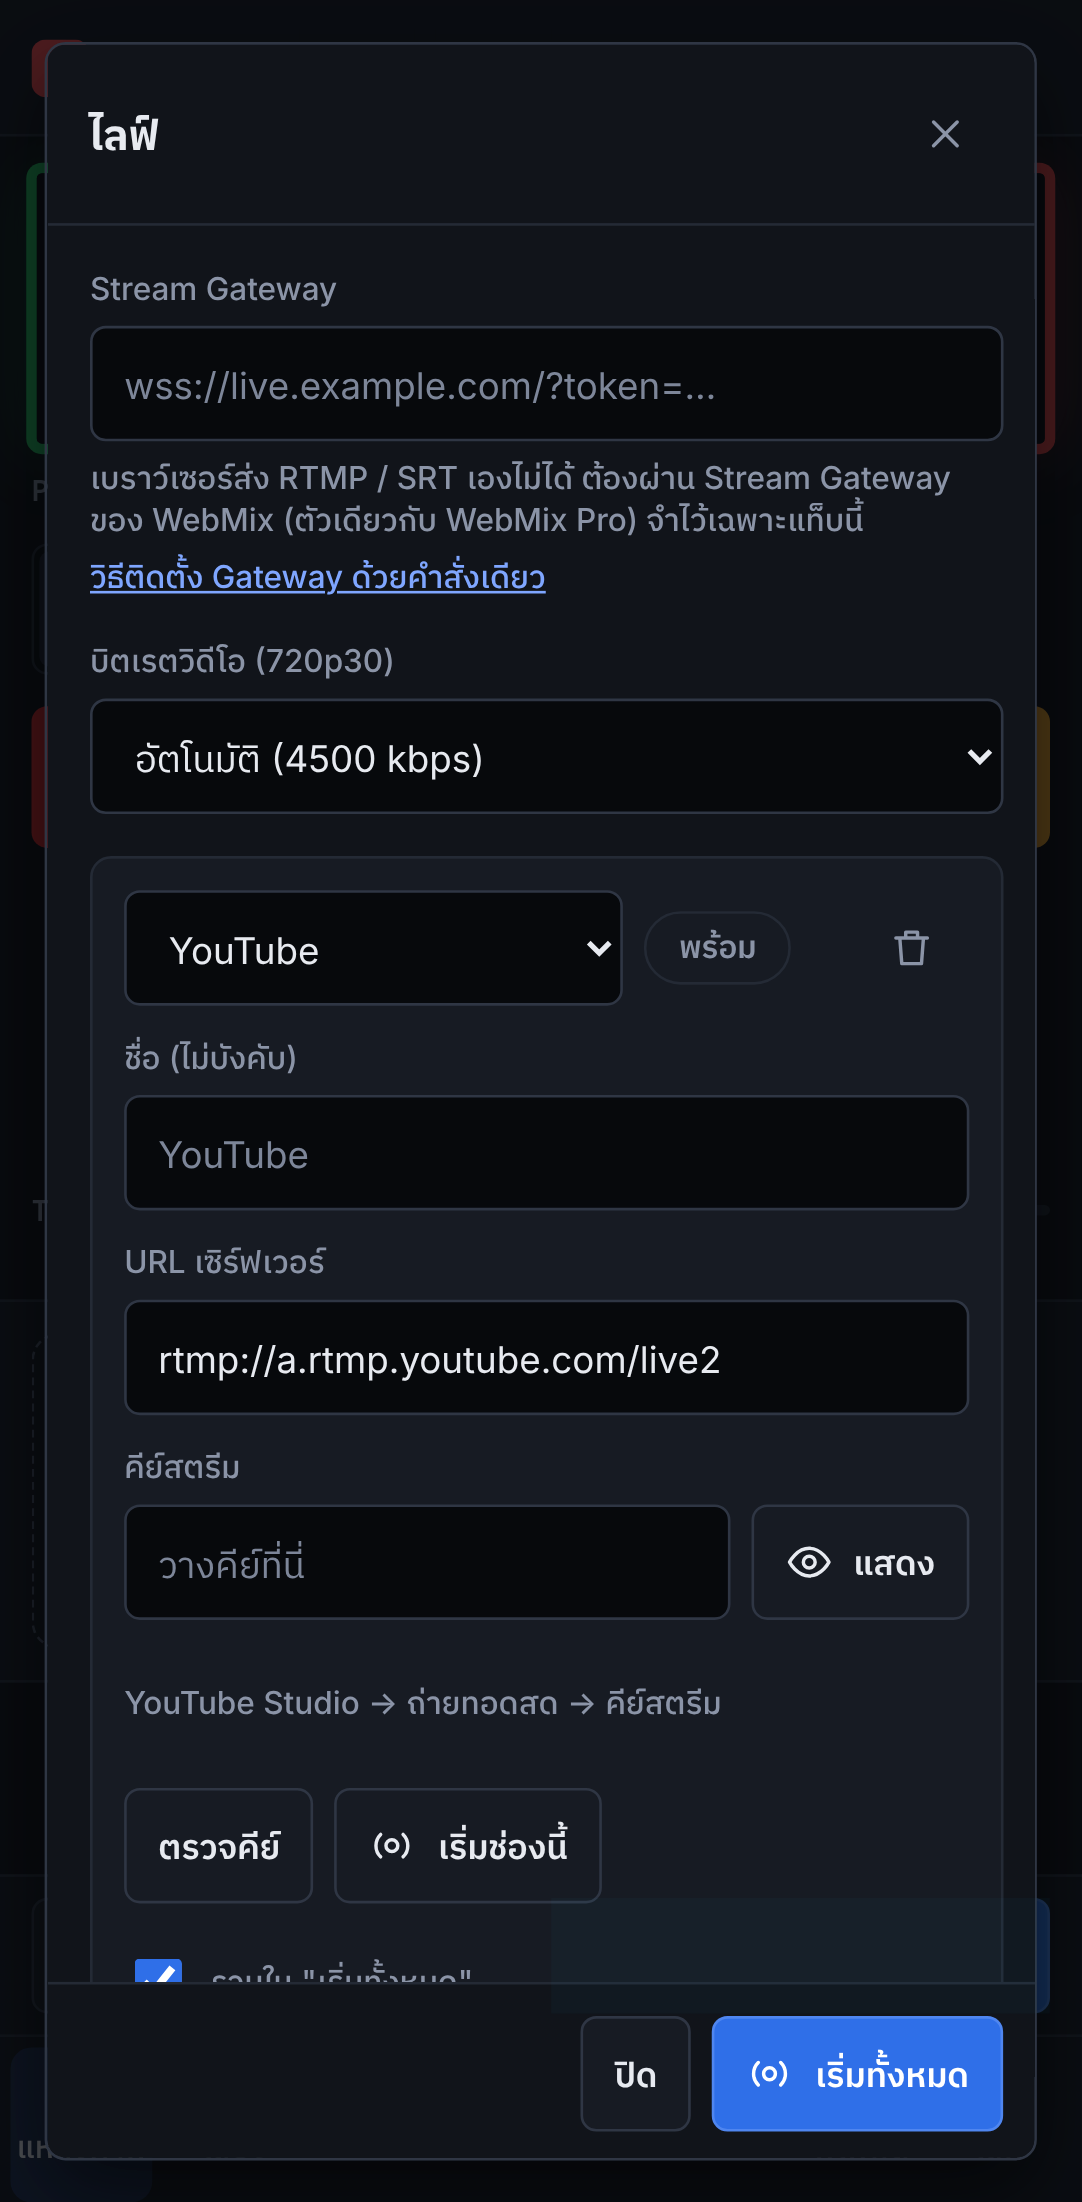
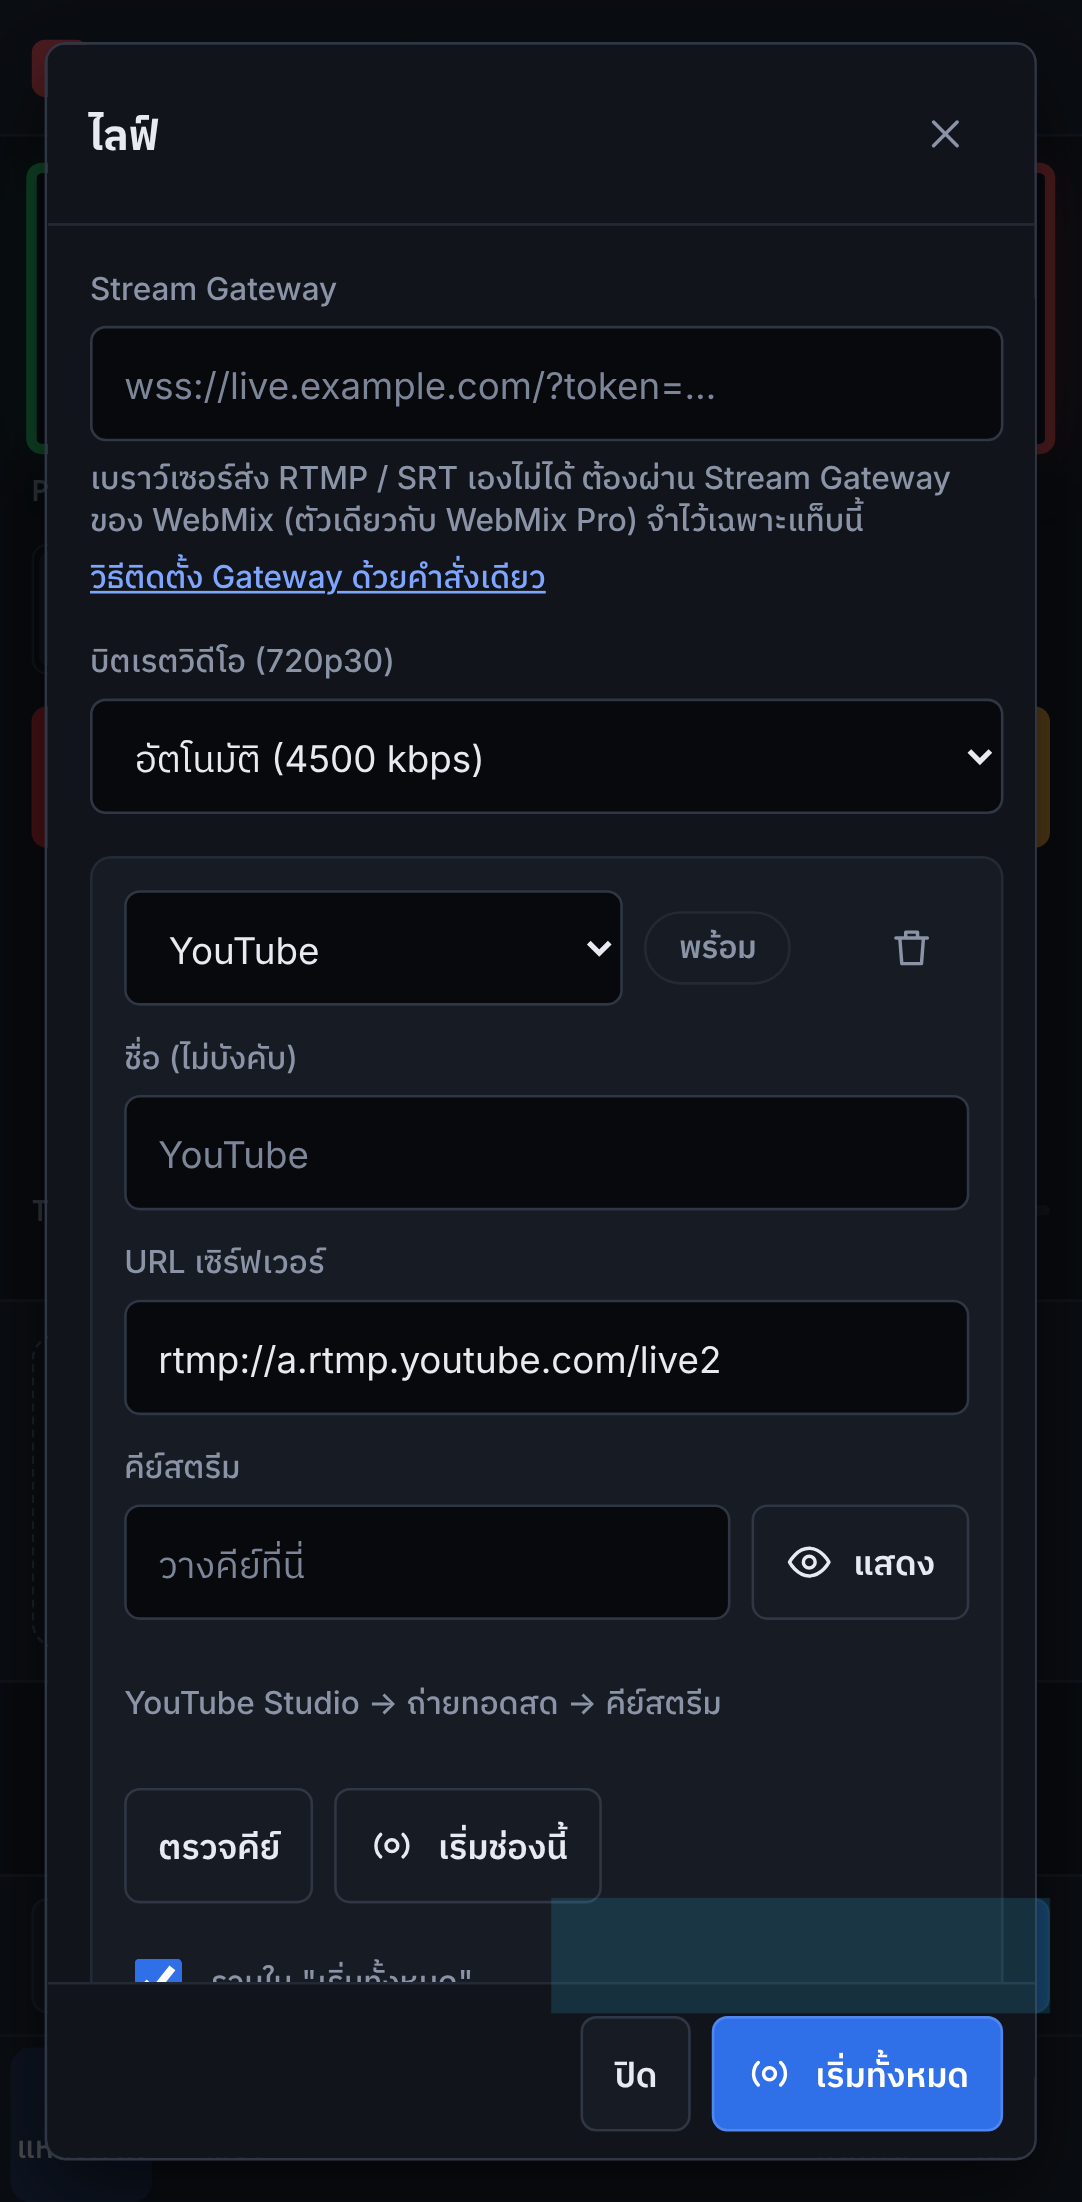
Fix overlay usability: pick a source from an empty channel, auto-PIP, cue on Preview
- Empty overlay buttons (and Shift+digit) open a chooser that assigns and takes the source
- A full-frame camera/video/image moved to an overlay shrinks to a PIP instead of covering Program
- Preview and Program no longer end up on the same source after a bus source moves to an overlay
- New per-channel 'show on PVW first' cue, marked green on the overlay button

Claude-Session: https://claude.ai/code/session_018is4AeNXbb7A8QyXR8Seq6

Changed region(s): [[0.488, 0.8647, 0.976, 0.9264]]

diff --git a/src/main.ts b/src/main.ts
@@ -94,6 +94,19 @@ function setOverlay(i: number, on: boolean): void {
   if (ui.selected === o.src) renderInspector();
 }
 
+/** what Preview shows: everything on air plus channels cued for checking */
+function previewLayers(onAir: Layer[]): Layer[] {
+  const out: Layer[] = [];
+  for (const o of scene.overlays) {
+    const source = byId(o.src);
+    if (!source) continue;
+    const live = onAir.find((l) => l.source.id === source.id);
+    if (live) out.push(live);
+    else if (o.cue) out.push({ source, fx: 'cut', e: 1 });
+  }
+  return out;
+}
+
 function layers(now: number): Layer[] {
   const out: Layer[] = [];
   scene.overlays.forEach((o, i) => {
@@ -527,8 +540,8 @@ function renderOverlayRow(): void {
   if (!row) return;
   row.innerHTML = `<span class="tag">OVL</span>${scene.overlays.map((o, i) => {
     const src = byId(o.src);
-    return `<button type="button" class="ovl-btn" data-act="ovl" data-i="${i}" aria-pressed="${o.on}" ${src ? '' : 'disabled'}
-      title="${src ? `${esc(src.name)} · Shift+${i + 1}` : `Overlay ${i + 1} ว่าง`}" aria-label="Overlay ${i + 1}${src ? ` ${esc(src.name)}` : ' ว่าง'}">${i + 1}</button>`;
+    return `<button type="button" class="ovl-btn${src ? '' : ' is-empty'}${o.cue && !o.on ? ' is-cued' : ''}" data-act="ovl" data-i="${i}" aria-pressed="${o.on}"
+      title="${src ? `${esc(src.name)} · Shift+${i + 1}` : `Overlay ${i + 1} ว่าง แตะเพื่อเลือก`}" aria-label="Overlay ${i + 1}${src ? ` ${esc(src.name)}` : ' ว่าง เลือกสิ่งที่จะซ้อน'}">${i + 1}</button>`;
   }).join('')}`;
 }
 
@@ -579,11 +592,17 @@ function assignOverlay(id: string, ch?: number): void {
   mutate((sc) => {
     // the effect settings travel with the graphic
     const old = sc.overlays.find((o) => o.src === id);
-    const look = old ? { fx: old.fx, dur: old.dur } : {};
+    const look = old ? { fx: old.fx, dur: old.dur, cue: old.cue } : {};
     sc.overlays.forEach((o) => {
       if (o.src === id) Object.assign(o, { src: null, on: false });
     });
     sc.overlays[target] = { ...sc.overlays[target], ...look, src: id, on: false };
+    // a full-frame camera / video / image becomes a picture-in-picture instead of covering Program
+    const t = sc.sources.find((x) => x.id === id);
+    const p = t?.props;
+    if (t && p && !old && needsMedia(t.kind) && p.scale === 1 && p.x === 0 && p.y === 0 && !p.cropL && !p.cropR && !p.cropT && !p.cropB) {
+      Object.assign(p, { scale: 0.32, x: 0.58, y: 0.5, border: p.border || 4 });
+    }
   }, { toast: `ย้าย ${s.name} ไป Overlay ${target + 1} แล้ว` });
   mutateBusAfterOverlay(id);
 }
@@ -1020,6 +1039,7 @@ function overlayAdvanced(s: Source): string {
     <label class="wm-field"><span>เอฟเฟกต์เข้า-ออก</span><select class="wm-input" data-ovl="fx">${OVERLAY_FX.map(([v, l]) =>
       `<option value="${v}" ${v === o.fx ? 'selected' : ''}>${l}</option>`).join('')}</select></label>
     ${rangeField('o:dur', 'ระยะเวลาเข้า-ออก', o.dur, 0, 2000, 1, 's', 100)}
+    ${switchRow('o:cue', 'แสดงบน PVW ก่อน (ยังไม่ออกอากาศ)', o.cue)}
     <button type="button" class="wm-btn wm-btn--sm" data-act="ovl-remove">เอาออกจาก Overlay</button>`;
 }
 
@@ -1365,6 +1385,26 @@ function openChooser(cat: Cat): void {
   }));
 }
 
+/** an empty overlay button: pick what goes on that channel, then take it */
+function openChannelChooser(ch: number): void {
+  const list = visuals().filter((s) => chOf(s.id) !== ch && !(s.kind === 'text' && s.props.style === 'slate'));
+  if (!list.length) return toast('เพิ่มกราฟิก ข้อความ หรือแหล่งภาพก่อน แล้วเลือกใส่ Overlay นี้');
+  const d = openDialog(`เลือกสิ่งที่จะซ้อนใน Overlay ${ch + 1}`, `<p class="wm-note">เลือกแล้วจะขึ้นจอทันที กดปุ่ม ${ch + 1} อีกครั้งเพื่อเอาลง · กล้องหรือวิดีโอเต็มจอจะย่อเป็นภาพซ้อนให้</p>
+    <div class="chooser">${list.map((s) => {
+      const cur = chOf(s.id);
+      return `<button type="button" class="wm-btn wm-btn--lg" data-pick="${s.id}">${icon(s.kind === 'text' ? 'text' : needsMedia(s.kind) ? 'source' : 'graphic')}${esc(s.name)}${cur >= 0 ? `<span class="tag">OVL ${cur + 1}</span>` : ''}</button>`;
+    }).join('')}</div>`,
+  '<button class="wm-btn" value="close">ปิด</button>');
+  d.querySelectorAll<HTMLElement>('[data-pick]').forEach((b) => b.addEventListener('click', () => {
+    d.close();
+    const id = b.dataset.pick!;
+    assignOverlay(id, ch);
+    setOverlay(ch, true);
+    select(id);
+    renderInspector();
+  }));
+}
+
 function openPipChooser(): void {
   const list = visuals().filter((s) => !isGraphic(s.id) && needsMedia(s.kind));
   if (!list.length) return toast('เพิ่มกล้อง หน้าจอ หรือวิดีโอก่อน แล้วเลือกเป็นภาพซ้อน');
@@ -1668,7 +1708,7 @@ function frame(now: number): void {
   lastFrame = now;
   const ls = layers(now);
   drawBus(pgmCtx, scene, scene.pgm, trans, now, ftb.level, ls);
-  drawBus(pvwCtx, scene, scene.pvw, null, now, 0, ls);
+  drawBus(pvwCtx, scene, scene.pvw, null, now, 0, previewLayers(ls));
   updateAudio(scene, onAir);
   paintWindows(pgmCtx.canvas, pvwCtx.canvas, scene, now);
 
@@ -1806,6 +1846,7 @@ const actions: Record<string, (el: HTMLElement, e: MouseEvent) => void> = {
   ftb: toggleFtb,
   ovl: (el) => {
     const i = Number(el.dataset.i);
+    if (!scene.overlays[i].src) return openChannelChooser(i);
     setOverlay(i, !scene.overlays[i].on);
   },
   'ovl-assign': () => {
@@ -1999,7 +2040,7 @@ function mutateBusAfterOverlay(id: string): void {
   if (scene.pgm === id || scene.pvw === id) {
     const rest = visuals().filter((x) => !isGraphic(x.id));
     if (scene.pgm === id) scene.pgm = rest[0]?.id ?? null;
-    if (scene.pvw === id) scene.pvw = rest.find((x) => x.id !== scene.pgm)?.id ?? null;
+    if (scene.pvw === id || scene.pvw === scene.pgm) scene.pvw = rest.find((x) => x.id !== scene.pgm)?.id ?? null;
     changed(false);
   }
 }
@@ -2133,7 +2174,7 @@ document.addEventListener('keydown', (e) => {
   if (digit && e.shiftKey) {
     e.preventDefault();
     const i = Number(digit[1]) - 1;
-    if (!scene.overlays[i].src) return toast(`Overlay ${i + 1} ยังว่าง เลือกกราฟิกแล้วตั้งช่องในแผงขวา`);
+    if (!scene.overlays[i].src) return openChannelChooser(i);
     return setOverlay(i, !scene.overlays[i].on);
   }
   if (/^[1-9]$/.test(e.key)) {

diff --git a/tests/graphics.spec.ts b/tests/graphics.spec.ts
@@ -36,7 +36,7 @@ test('graphics land on overlay channels with in / out effects', async ({ page })
   await addTile(page, 'text', 't-l3');
   await expect(cards(page).nth(1)).toContainText('Overlay 1 · ออนแอร์');
   await expect(ovlBtn(page, 1)).toHaveAttribute('aria-pressed', 'true');
-  await expect(ovlBtn(page, 2)).toBeDisabled();
+  await expect(ovlBtn(page, 2)).toHaveClass(/is-empty/);
   await expect.poll(() => pgmPixel(page, 0.2, 0.8)).not.toEqual(bare);
 
   // Shift+1 takes it off, the bus stays on Color Bars
@@ -55,8 +55,8 @@ test('graphics land on overlay channels with in / out effects', async ({ page })
   await insp(page).locator('[data-act="advanced"]').click();
   await insp(page).locator('select[data-ovl="fx"]').selectOption('wipe');
   await insp(page).locator('select[data-ovl="ch"]').selectOption('2');
-  await expect(ovlBtn(page, 3)).toBeEnabled();
-  await expect(ovlBtn(page, 1)).toBeDisabled();
+  await expect(ovlBtn(page, 3)).not.toHaveClass(/is-empty/);
+  await expect(ovlBtn(page, 1)).toHaveClass(/is-empty/);
   await ovlBtn(page, 3).click();
   await expect(ovlBtn(page, 3)).toHaveAttribute('aria-pressed', 'true');
   const sceneOverlay = await page.evaluate(() => (window as unknown as { __webmix: { scene: { overlays: { fx: string; on: boolean }[] } } }).__webmix.scene.overlays[2]);
@@ -65,8 +65,42 @@ test('graphics land on overlay channels with in / out effects', async ({ page })
   // after a reload the graphic keeps its channel but stays off air
   await page.waitForTimeout(500);
   await page.reload();
-  await expect(ovlBtn(page, 3)).toBeEnabled();
+  await expect(ovlBtn(page, 3)).not.toHaveClass(/is-empty/);
   await expect(ovlBtn(page, 3)).toHaveAttribute('aria-pressed', 'false');
+});
+
+test('empty overlay button picks a source; a camera becomes a PIP; cue shows on PVW only', async ({ page }) => {
+  await page.goto('/');
+  await addTile(page, 'source', 'cam');
+  await addTile(page, 'source', 'bars');
+  await expect(pgmName(page)).toHaveText('กล้อง 1');
+  const pvwPixel = (fx: number, fy: number) => page.evaluate(([fx, fy]) => {
+    const c = document.querySelector<HTMLCanvasElement>('#cv-pvw')!;
+    return [...c.getContext('2d')!.getImageData(c.width * fx, c.height * fy, 1, 1).data.slice(0, 3)];
+  }, [fx, fy]);
+
+  // tap the empty Overlay 4 and choose the camera: it shrinks to a PIP, the buses move on
+  await ovlBtn(page, 4).click();
+  await expect(page.locator('#dlg')).toContainText('Overlay 4');
+  await page.locator('#dlg [data-pick]').filter({ hasText: 'กล้อง 1' }).click();
+  await expect(ovlBtn(page, 4)).toHaveAttribute('aria-pressed', 'true');
+  await expect(pgmName(page)).toHaveText('Color Bars');
+  await expect(page.getByTestId('pvw-name')).toHaveText('ว่าง');
+  const props = await page.evaluate(() => (window as unknown as { __webmix: { scene: { sources: { props: { scale: number; x: number } }[] } } }).__webmix.scene.sources[0].props);
+  expect(props).toMatchObject({ scale: 0.32, x: 0.58 });
+  // the bars still show around the PIP
+  await expect.poll(() => pgmPixel(page, 0.05, 0.3)).toEqual([191, 191, 191]);
+
+  // a lower third cued on PVW: visible in Preview, not on Program
+  await addTile(page, 'text', 't-l3');
+  await ovlBtn(page, 1).click();
+  await expect(ovlBtn(page, 1)).toHaveAttribute('aria-pressed', 'false');
+  const before = await pgmPixel(page, 0.12, 0.82);
+  await insp(page).locator('[data-act="advanced"]').click();
+  await insp(page).locator('[data-prop="o:cue"]').click();
+  await expect(ovlBtn(page, 1)).toHaveClass(/is-cued/);
+  await expect.poll(() => pvwPixel(0.12, 0.82)).not.toEqual([5, 7, 10]);
+  expect(await pgmPixel(page, 0.12, 0.82)).toEqual(before);
 });
 
 test('chroma key removes the green screen', async ({ page }) => {

diff --git a/src/app.css b/src/app.css
@@ -107,7 +107,8 @@ button, input { font: inherit; color: inherit; }
 .ovl-row .tag { margin-right: var(--space-1); }
 .ovl-btn { width: var(--control-sm); height: var(--control-sm); border-radius: var(--radius-xs); border: 1px solid var(--line-2); background: var(--panel-2); color: var(--text); font: 700 12px/16px var(--font-mono); cursor: pointer; }
 .ovl-btn:hover:not([disabled]) { background: var(--panel-3); border-color: var(--line-strong); }
-.ovl-btn[disabled] { color: var(--dim); background: var(--panel); cursor: not-allowed; }
+.ovl-btn.is-empty { color: var(--dim-aa); background: var(--panel); border-style: dashed; }
+.ovl-btn.is-cued { border-color: var(--pvw); color: var(--pvw); }
 .ovl-btn[aria-pressed="true"] { background: var(--pgm-fill); border-color: var(--pgm); color: var(--on-accent); }
 .ovl-btn:focus-visible { outline: none; box-shadow: var(--focus-ring); }
 .tbar { display: flex; align-items: center; gap: var(--space-3); width: min(100%, 420px); color: var(--muted); }

diff --git a/src/scene.ts b/src/scene.ts
@@ -19,6 +19,8 @@ export interface Overlay {
   on: boolean;
   fx: OverlayFx;
   dur: number;
+  /** show it on Preview while it is off air, to check it before taking it */
+  cue: boolean;
 }
 
 export interface Props {
@@ -139,7 +141,7 @@ export function defaultProps(): Props {
 }
 
 export function emptyOverlays(): Overlay[] {
-  return Array.from({ length: OVERLAY_COUNT }, () => ({ src: null, on: false, fx: 'fade' as OverlayFx, dur: 400 }));
+  return Array.from({ length: OVERLAY_COUNT }, () => ({ src: null, on: false, fx: 'fade' as OverlayFx, dur: 400, cue: false }));
 }
 
 export function defaultScene(): Scene {

diff --git a/README.md b/README.md
@@ -15,7 +15,7 @@
    - ไฟล์วิดีโอและ **เพลย์ลิสต์** (เลือกได้หลายไฟล์) มีแท็บ "เล่น": เล่น / หยุด, เริ่มใหม่, เลื่อนตำแหน่ง, ไฟล์ก่อน / ถัดไป, เล่นวน และ "เริ่มจากต้นเมื่อขึ้น PGM"
    - กล้องเลือกความละเอียด 720p / 1080p / 4K ได้ใน "ตั้งค่าขั้นสูง"
 4. **ปรับค่า** แตะการ์ดแล้วปรับในแผงขวา: ขนาด, ความโปร่งใส, กลับด้าน, แสดงซ้อนบนจอ ค่าอื่น ๆ (ตำแหน่ง, การจัดภาพ, ชื่อ) อยู่ใน "ตั้งค่าขั้นสูง" ถ้าไม่ได้เลือกอะไร แผงนี้ปรับเอาต์พุต: ระยะเวลา AUTO, ระดับเสียงรวม, ความละเอียดถึง **4K** และ 30 / 60 fps, FTB, เปิด **หน้าต่าง Program** แยก (ลากไปจอที่สองหรือโปรเจกเตอร์ ดับเบิลคลิกเพื่อเต็มจอ), **Multiview** (PVW, PGM และ 8 แหล่งภาพพร้อม tally), เต็มจอ และถ่ายภาพนิ่ง PNG
-5. **ข้อความ / กราฟิก / คอมเมนต์ (Overlay 1–8)** กราฟิกทุกชิ้นอยู่บนช่อง Overlay 1–8 ซ้อนบน Program โดยไม่แตะภาพหลัก กดปุ่ม 1–8 ในแถว OVL ใต้ CUT / AUTO หรือ `Shift+1`–`Shift+8` เพื่อขึ้น / ลง (กดเลขการ์ดของกราฟิกก็ได้) ตั้งช่อง เอฟเฟกต์เข้า-ออก (Cut, Fade, Zoom, Slide ←→↑↓, Wipe) และระยะเวลาใน "ตั้งค่าขั้นสูง" หลังเปิดหน้าใหม่กราฟิกจะไม่ขึ้นจอเอง
+5. **ข้อความ / กราฟิก / คอมเมนต์ (Overlay 1–8)** กราฟิกทุกชิ้นอยู่บนช่อง Overlay 1–8 ซ้อนบน Program โดยไม่แตะภาพหลัก กดปุ่ม 1–8 ในแถว OVL ใต้ CUT / AUTO หรือ `Shift+1`–`Shift+8` เพื่อขึ้น / ลง (กดเลขการ์ดของกราฟิกก็ได้) ตั้งช่อง เอฟเฟกต์เข้า-ออก (Cut, Fade, Zoom, Slide ←→↑↓, Wipe) และระยะเวลาใน "ตั้งค่าขั้นสูง" หลังเปิดหน้าใหม่กราฟิกจะไม่ขึ้นจอเอง ปุ่ม Overlay ที่ยังว่างแตะเพื่อเลือกสิ่งที่จะซ้อนได้เลย (กล้อง / วิดีโอเต็มจอจะย่อเป็นภาพซ้อนให้) และเปิด "แสดงบน PVW ก่อน" เพื่อตรวจกราฟิกบนจอ PVW ก่อนขึ้นจริง (ปุ่มขอบเขียว)
    - Lower third, หัวเรื่อง, ป้ายมุมจอ, การ์ดคอมเมนต์, **ตัววิ่งข่าว** (บรรทัดละเรื่อง ปรับความเร็วได้) และ **ป้ายที่บันทึกไว้** แตะเพื่อสลับชื่อ / ตำแหน่งระหว่างไลฟ์
    - **ป้ายคะแนน** ปุ่ม + / − ของแต่ละทีม, ช่วงเวลา, สีทีม · **นับถอยหลัง / จับเวลา** เริ่ม หยุด เริ่มใหม่
    - **ภาพซ้อน (PIP)** เลือกกล้อง / หน้าจอ / วิดีโอให้ย่อลงมุมจอ ปรับตำแหน่ง ครอป 4 ด้าน และขอบ
